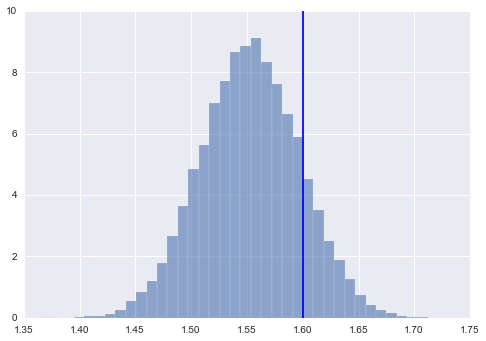
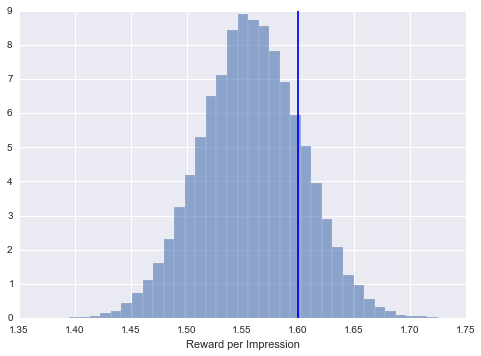
fixed plots

diff --git a/_posts/2015-03-16-AB Testing with Multinomial Data.md b/_posts/2015-03-16-AB Testing with Multinomial Data.md
@@ -40,7 +40,7 @@ amounts. The image below shows a sample banner:
 
 
 
-![_config.yml]({{ site.baseurl }}/images/AB%20Testing%20with%20Multinomial%20Data_files/sample_banner.png)
+![_config.yml]({{ site.baseurl }}/ipython/AB%20Testing%20with%20Multinomial%20Data_files/sample_banner.png)
 
 
 In this case, there are 7 discrete amount choices given. There is, of course,
@@ -52,7 +52,7 @@ donation amounts from a recent test. Even visually, we get the impression that
 the fixed amounts dominate the character of the distribution.
 
 
-![_config.yml]({{ site.baseurl }}/images/AB%20Testing%20with%20Multinomial%20Data_files/AB%20Testing%20with%20Multinomial%20Data_5_0.png)
+![_config.yml]({{ site.baseurl }}/ipython/AB%20Testing%20with%20Multinomial%20Data_files/AB%20Testing%20with%20Multinomial%20Data_5_0.png)
 
 
 A clear choice for modeling the distribution over fixed donation amounts is the
@@ -302,16 +302,16 @@ prob_a_better = (return_distribution_a > return_distribution_b).mean()
 print "P(R_A > R_B) = %0.4f" % prob_a_better
 
 
-P(R_A > R_B) = 0.9771
+P(R_A > R_B) = 0.83.94
 ~~~
 
 
-![_config.yml]({{ site.baseurl }}/images/AB%20Testing%20with%20Multinomial%20Data_files/AB%20Testing%20with%20Multinomial%20Data_20_1.png)
+![_config.yml]({{ site.baseurl }}/ipython/AB%20Testing%20with%20Multinomial%20Data_files/AB%20Testing%20with%20Multinomial%20Data_20_1.png)
 
 
 The plot depicts the posterior distributions over \\(R\_a\\)  \\(R\_a\\) along with the
-true values. On this particular run, banner A did better than expected and banner B did worse
-than expected.  Judging from the data we observe, we are 97% certain that banner
+true values. On this particular run,both banners did slightly better than expected.
+Judging from the data we observe, we are 84% certain that banner
 A is better than banner B. Looking at one particular run, is not particularly
 instructive. For a given true difference \\(R\_a - R\_b\\) in expected rewards, the
 key factor that influences \\(\mathcal P \left({R\_a > R\_b | Data}\right)\\) is the
@@ -338,7 +338,7 @@ plt.ylabel('P(R_A > R_B)')
 ~~~
 
 
-![_config.yml]({{ site.baseurl }}/images/AB%20Testing%20with%20Multinomial%20Data_files/AB%20Testing%20with%20Multinomial%20Data_22_1.png)
+![_config.yml]({{ site.baseurl }}/ipython/AB%20Testing%20with%20Multinomial%20Data_files/AB%20Testing%20with%20Multinomial%20Data_22_1.png)
 
 
 The plot illustrates an intuitive fact: the longer you run the test, the more
@@ -394,11 +394,11 @@ The percent lift that A has over B lies in the interval (-1.542, 8.604) with 95%
 ~~~
 
 
-![_config.yml]({{ site.baseurl }}/images/AB%20Testing%20with%20Multinomial%20Data_files/AB%20Testing%20with%20Multinomial%20Data_25_1.png)
+![_config.yml]({{ site.baseurl }}/ipython/AB%20Testing%20with%20Multinomial%20Data_files/AB%20Testing%20with%20Multinomial%20Data_25_1.png)
 
 
 In truth, banner A is 6% better than banner B. For this particular run, our method is 
-95% certain that banner A is between (-1.542, 8.604) better than banner B. To test the accurracy of the method, we can repeat the exercise from above of
+95% certain that banner A is between (-1.542%, 8.604%) better than banner B. To test the accurracy of the method, we can repeat the exercise from above of
 repeatedly generating confidence intervals and seeing if our x% confidence
 intervals cover the true percent difference x% of the time. You will see that
 they do:
@@ -411,8 +411,8 @@ cover_count = 0.0
 
 for i in range(iters):
     #simulate running the banner
-    counts_a = run_banner(p\_a, 4000)
-    counts_b = run_banner(p\_b, 4000)
+    counts_a = run_banner(p_a, 4000)
+    counts_b = run_banner(p_b, 4000)
     # get the posterior distribution over percent difference
     return_distribution_a = get_posterior_reward_per_impression_sample(alpha, counts_a, values_a)
     return_distribution_b = get_posterior_reward_per_impression_sample(alpha, counts_b, values_b)
